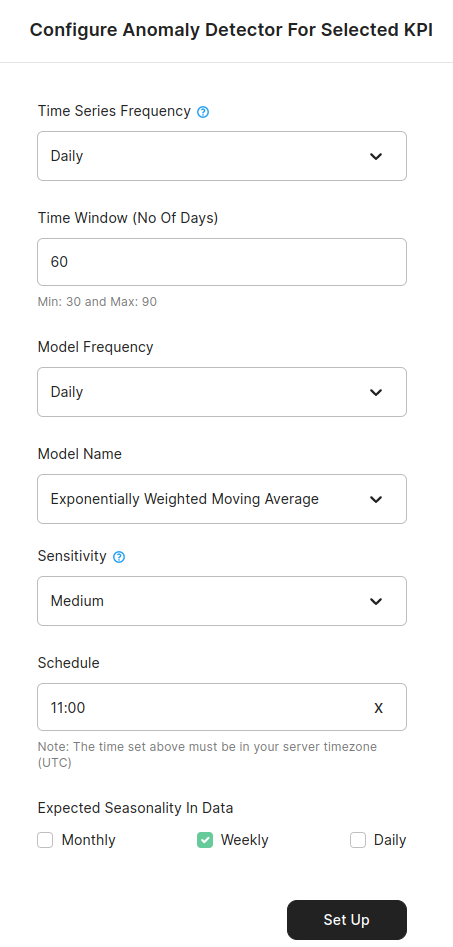
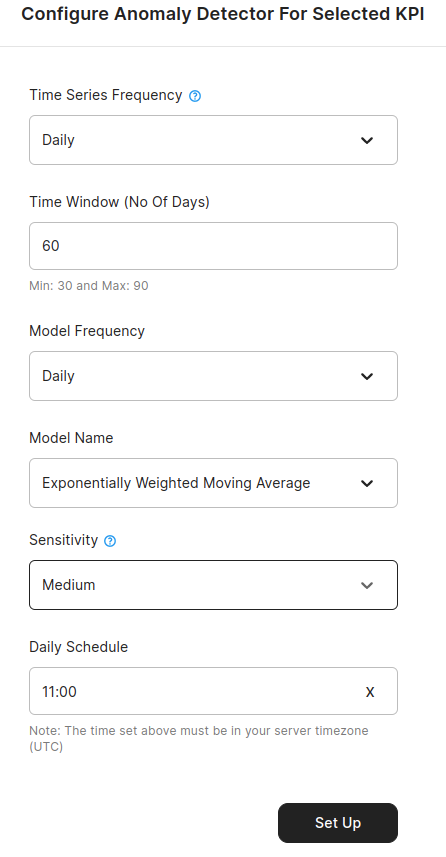
update anomaly

diff --git a/docs/Dashboard/anomaly.md b/docs/Dashboard/anomaly.md
@@ -13,6 +13,10 @@ In order to run Anomaly Detection on the selected KPI, you need to configure in 
 
 There are multiple parameters that you can tune to configure the Anomaly Detection analytics for selected KPI. 
 
+### Time Series Frequency
+
+This input is for the model to understand the frequency of the incoming data. If you have data points coming in once a day, set it to daily or if you have data points coming once a hour, then set it to hourly.
+
 ### Time Window
 
 Time Window is the historical data points which will be used to train the selected model on your data to learn about the trends, seasonality and patterns for the selected KPI. If you choose a time window of 90 days with daily frequency data, past 90 days of data will be examined. For daily data, time window needs to be in the range of 30 to 60 days. For hourly data, time windows is between 7 to 21 days.
@@ -21,7 +25,7 @@ Disclaimer: If the window size is greater than the data availbable, anomaly dete
 ### Model Frequency
 
 This is the frequency at which Chaos Genius will run Anomaly Detection. Chaos Genius provides the option for either Daily or Hourly frequency. If you choose Daily, this means, Chaos Genius will run Anomaly Detection once a day at a specified time. If you choose Hourly, Anomaly Detection will run every hour at the specified minute.
-### Select A Model
+### Model Name
 
 Here you will select which model will be used to run anomaly detection. You can find a list of available models and their use cases is the Anomaly Detection Algorithms section below.
 
@@ -29,17 +33,9 @@ Here you will select which model will be used to run anomaly detection. You can 
 
 Sensitivity is a measure of the model's response to anomalous data points. A higher sensitivity will lead to even small changes being detected as anomalies and whereas lower sensitivity will only generate anomalies on larger changes.
 
-### Time Series Frequency
-
-This input is for the model to understand the frequency of the incoming data. If you have data points coming in once a day, set it to daily or if you have data points coming once a hour, then set it to hourly.
-
 ### Schedule
 
 The time at which to run anomaly detection. If you select Model Frequency as Daily, Schedule Time is the hour of the day at which Anomaly will run. If you select Hourly, Schedule Time is the minute of the hour at which Anomaly will run. Note the time set here is in accordance to your server time on which Chaos Genius is set up.
-
-### Expected Seasonality in Data
-
-Here we ask for what kind of seasonality is expected in the data as it can help our models be more accurate but you can still leave these boxes empty if you are not sure.
 
 
 ## Anomaly Detection Algorithms
